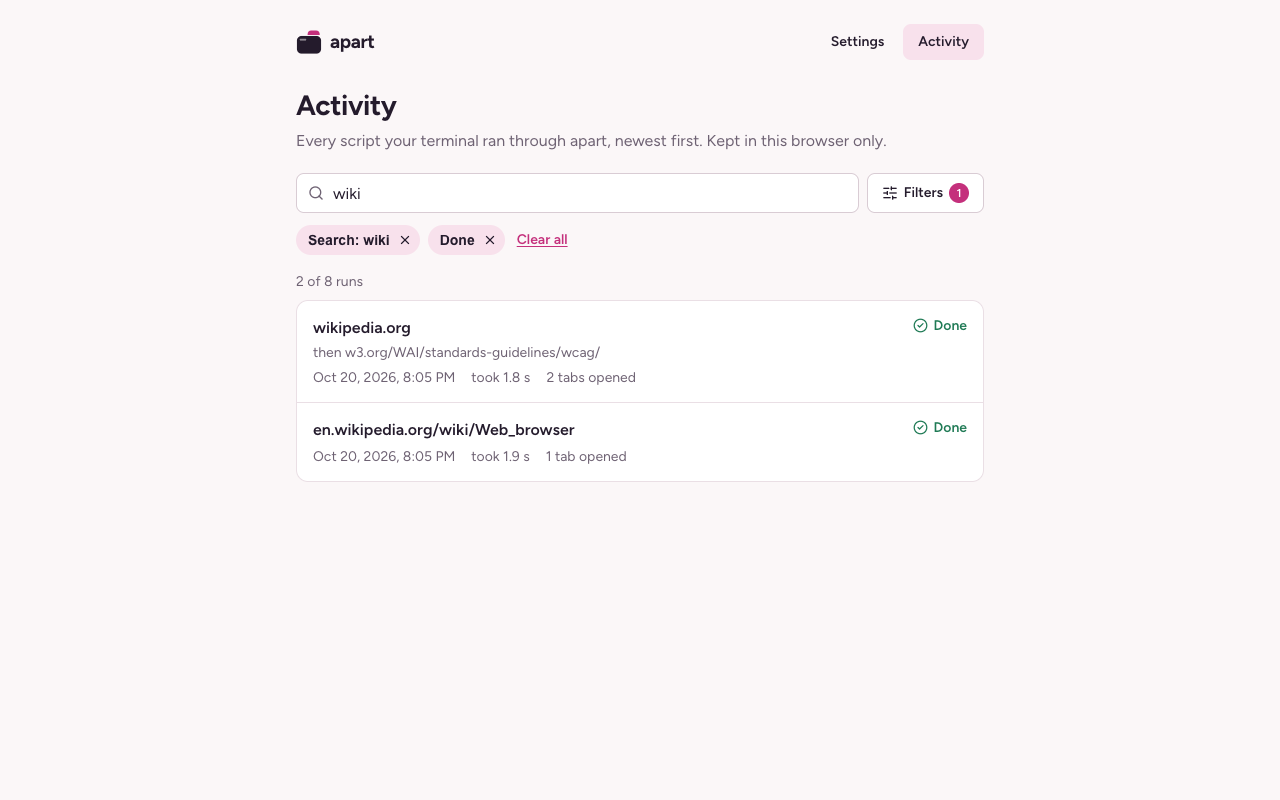
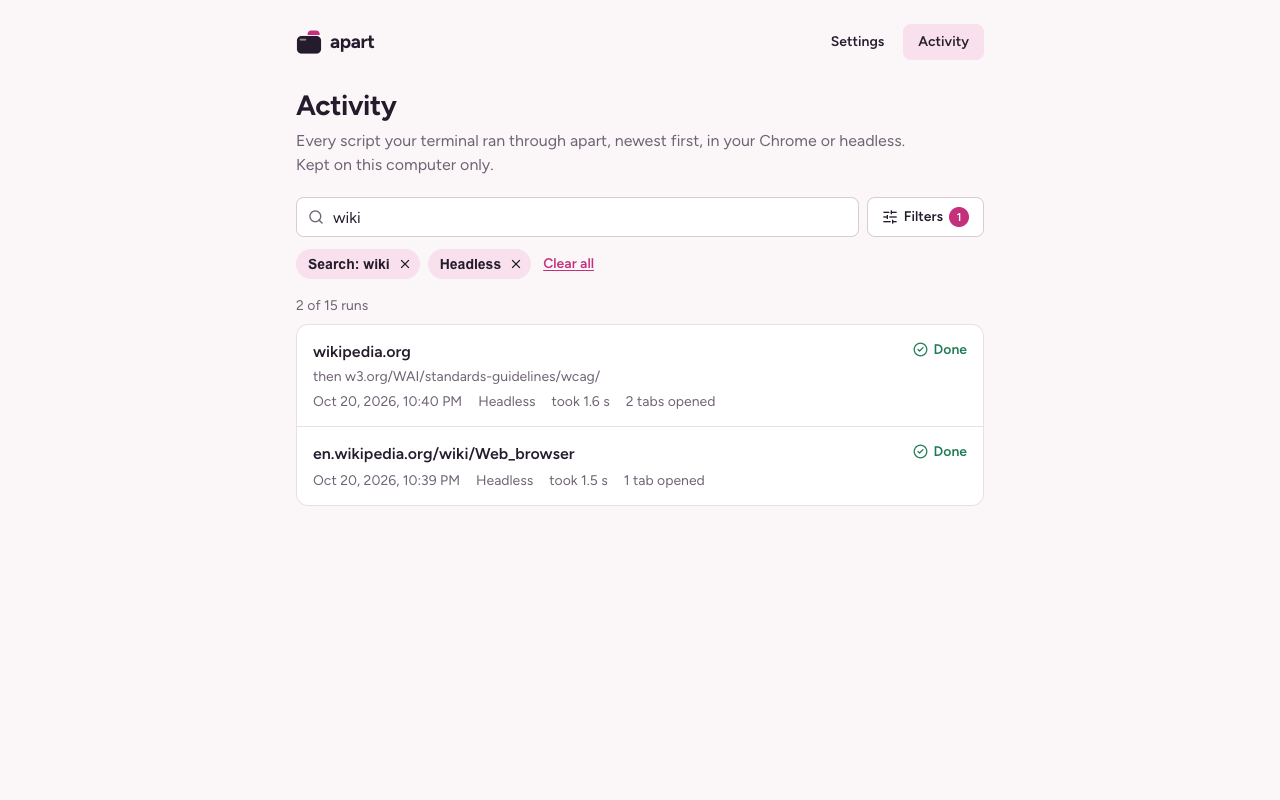
Update the Web Store listing and screenshots
The listing now covers headless runs, frames, dialogs, uploads and
downloads, the downloads permission and how a reviewer can check it.
The store screenshots show runs from both browsers and the default
browser setting. Blob downloads are covered by the end-to-end tests.

diff --git a/test/features.test.ts b/test/features.test.ts
@@ -101,6 +101,10 @@ const SCRIPT = (url: string) => `
   const saved = await download.path();
   console.log("DOWNLOAD=" + download.suggestedFilename() + " " + path.relative(pwd, saved) + " " + JSON.stringify(await fs.readFile(saved, "utf8")));
 
+  await pg.evaluate(() => { const a = document.createElement("a"); a.href = URL.createObjectURL(new Blob(["hello"])); a.download = "hello.txt"; a.id = "blob"; a.textContent = "Blob"; document.body.prepend(a); });
+  const [blob] = await Promise.all([pg.waitForEvent("download"), pg.click("#blob")]);
+  console.log("BLOB=" + blob.suggestedFilename() + " " + JSON.stringify(await fs.readFile(await blob.path(), "utf8")));
+
   const shot = await annotatedScreenshot(pg);
   console.log("ANNOTATED=" + (shot.refCount > 4));
   await closeTab(pg);
@@ -130,6 +134,7 @@ function expectFeatures(text: string): void {
   expect(text).toContain("FILES=notes.txt:5:text/plain,data.csv:3:text/csv");
   expect(text).toContain("ESCAPE=PathEscapesRunDirError");
   expect(text).toContain('DOWNLOAD=report.csv downloads/report.csv "a,b\\n1,2\\n"');
+  expect(text).toContain('BLOB=hello.txt "hello"');
   expect(text).toContain("ANNOTATED=true");
 }
 

diff --git a/docs/chrome-web-store.md b/docs/chrome-web-store.md
@@ -18,17 +18,20 @@ Everything the developer dashboard asks for, ready to paste. Upload `dist/store/
 
 > apart lets scripts and coding agents in your terminal use your real Chrome: the one you are already signed in to.
 >
-> You install the free, open source apart command line tool, then run a Playwright-style script with `apart repl`. This extension receives those commands from apart on your computer, opens tabs in a pink "apart" tab group, works in them and reports back. When the script ends, its tabs close.
+> You install the free, open source apart command line tool, then run a Playwright-style script with `apart repl`. This extension receives those commands from apart on your computer, opens tabs in a pink "apart" tab group, works in them and reports back: what the page says, what changed, screenshots and PDFs. Scripts can fill forms, reach inside embedded frames, answer dialogs, upload files and save downloads. When the script ends, its tabs close.
+>
+> apart can also run scripts in a hidden headless Chrome of its own. You choose which one runs by default, and every run from both shows up in this extension's activity log.
 >
 > What you get in the browser:
 > • A toolbar popup that shows whether your terminal can reach Chrome, with the command to run when it cannot.
-> • An activity log of every run, the pages it opened and any error, with search and filters.
-> • A settings page with the connection details and a setup checklist.
+> • An activity log of every run, the pages it opened, whether it ran in your Chrome or headless, and any error, with search and filters.
+> • A settings page with the connection details, the default browser and a setup checklist.
 >
 > What it will not do:
 > • It never talks to any server. It only connects to apart on your own computer (127.0.0.1).
 > • It only touches tabs a script opened, or a tab you hand to a script on purpose.
 > • It does not read or export your cookies or passwords.
+> • It only looks at downloads that finish while a script is running.
 >
 > Chrome shows "apart started debugging this browser" while a script runs. That is Chrome's standard notice for extensions that use the debugger.
 >
@@ -72,6 +75,8 @@ Everything the developer dashboard asks for, ready to paste. Upload `dist/store/
 - **Website content:** page text and screenshots are passed to the apart program on the user's computer, for the script the user ran.
 - **Web history:** the activity log keeps the addresses of pages each run visited, without query strings or fragments, in local extension storage.
 
+Downloaded files a script triggers stay on the user's computer: Chrome saves them as usual, and the extension tells the apart program where, so it can copy them into that run's folder. That is covered by Website content.
+
 Then tick all three certifications: not sold to third parties, not used for purposes unrelated to the single purpose, not used for creditworthiness or lending.
 
 **Privacy policy URL:** https://github.com/e6uka/apart/blob/main/PRIVACY.md
@@ -84,10 +89,10 @@ Then tick all three certifications: not sold to third parties, not used for purp
 
 ## What to expect in review
 
-- `debugger` triggers a manual, in-depth review. Expect several days, sometimes a few weeks.
+- `debugger` triggers a manual, in-depth review. Expect several days, sometimes a few weeks. `downloads` is a second sensitive permission; the justification above explains why it is needed.
 - Reviewers may ask how to test it. Answer in the "Notes for reviewer" field:
 
-  > The extension does nothing on its own; it needs the open source apart command line tool. To test: install Node.js 22, run `git clone https://github.com/e6uka/apart && cd apart && ./install.sh && apart doctor`, then `apart repl 'const pg = await openTab("https://example.com"); console.log(await pg.title()); await closeTab(pg);'`. A tab opens in a pink "apart" group, the title prints in the terminal, and the run appears in the extension's Activity page.
+  > The extension does nothing on its own; it needs the open source apart command line tool. To test: install Node.js 22, run `git clone https://github.com/e6uka/apart && cd apart && ./install.sh --browser=chrome && apart doctor`, then `apart repl --chrome 'const pg = await openTab("https://example.com"); console.log(await pg.title()); await closeTab(pg);'`. A tab opens in a pink "apart" group, the title prints in the terminal, and the run appears in the extension's Activity page. To check the downloads permission: `apart repl --chrome 'const pg = await openTab("https://example.com"); await pg.evaluate(() => { const a = document.createElement("a"); a.href = URL.createObjectURL(new Blob(["hello"])); a.download = "hello.txt"; a.id = "dl"; a.textContent = "Download"; document.body.append(a); }); const [d] = await Promise.all([pg.waitForEvent("download"), pg.click("#dl")]); console.log(await d.path()); await closeTab(pg);'`. Chrome saves hello.txt to the downloads folder and the terminal prints the copy in the run folder.
 
 ## After the first upload
 
